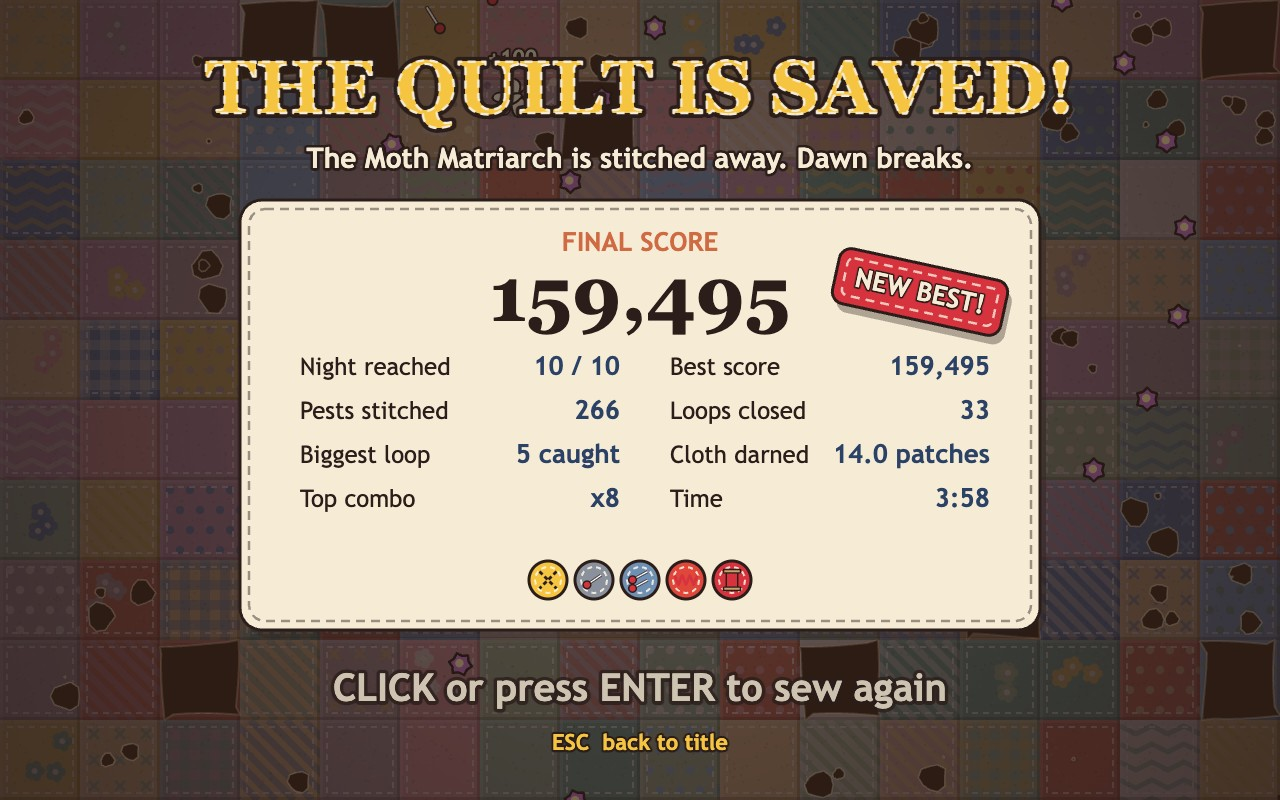
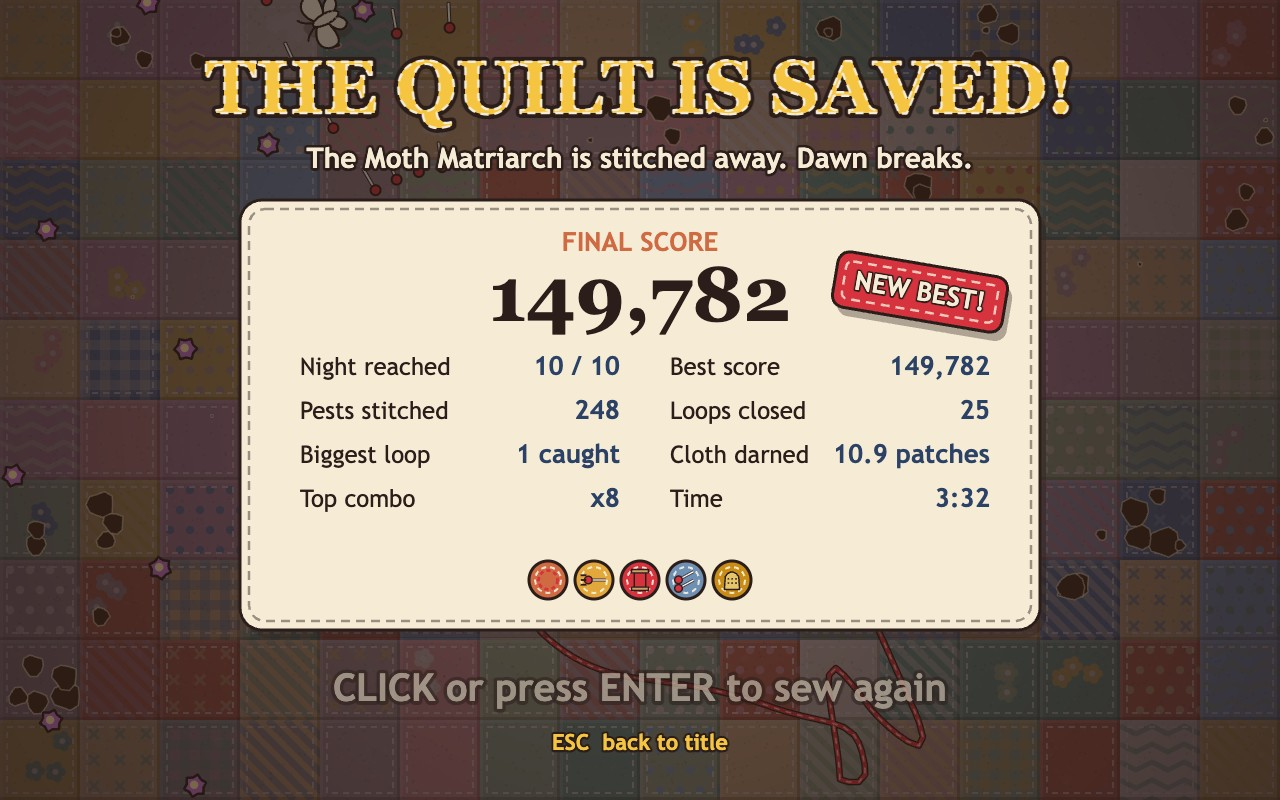
Teaching tips, win confetti, HiDPI canvas, auto-pause on blur, longer Matriarch fight, seed 6 cover

diff --git a/game/src/main.js b/game/src/main.js
@@ -26,8 +26,6 @@ const shotName = params.get('shot');
 
 const canvas = document.getElementById('game');
 const status = document.getElementById('status');
-canvas.width = VIEW.width;
-canvas.height = VIEW.height;
 const ctx = canvas.getContext('2d');
 const input = createInput(canvas);
 const audio = createAudio();
@@ -50,10 +48,26 @@ function newSeed() {
   return fixedSeed ?? Math.floor(Math.random() * 4294967296);
 }
 
+/** Backing-store pixels per logical pixel, so the game stays sharp on large and HiDPI screens. */
+let pixelScale = 1;
+
 function fitCanvas() {
   const scale = Math.min(window.innerWidth / VIEW.width, window.innerHeight / VIEW.height);
-  canvas.style.width = `${Math.floor(VIEW.width * scale)}px`;
-  canvas.style.height = `${Math.floor(VIEW.height * scale)}px`;
+  const cssWidth = Math.floor(VIEW.width * scale);
+  const cssHeight = Math.floor(VIEW.height * scale);
+  canvas.style.width = `${cssWidth}px`;
+  canvas.style.height = `${cssHeight}px`;
+  pixelScale = shotName ? 1 : Math.min(2, Math.max(1, (cssWidth / VIEW.width) * (window.devicePixelRatio || 1)));
+  canvas.width = Math.round(VIEW.width * pixelScale);
+  canvas.height = Math.round(VIEW.height * pixelScale);
+}
+
+/** Pauses a run when the player switches away, so nothing happens behind their back. */
+function pauseOnBlur() {
+  if (state.screen === 'play') {
+    state.screen = 'pause';
+    announce('Paused.');
+  }
 }
 
 function announce(text) {
@@ -204,6 +218,7 @@ function update(dt) {
 
 function render() {
   const t = state.clock;
+  ctx.setTransform(pixelScale, 0, 0, pixelScale, 0, 0);
   if (state.screen === 'title') {
     drawScene(ctx, state.demoRun, t);
     drawTitle(ctx, state.best, t);
@@ -252,6 +267,10 @@ function stage(name) {
 
 fitCanvas();
 window.addEventListener('resize', fitCanvas);
+window.addEventListener('blur', pauseOnBlur);
+document.addEventListener('visibilitychange', () => {
+  if (document.hidden) pauseOnBlur();
+});
 window.__stitch = {
   state,
   startRun,

diff --git a/game/src/hud.js b/game/src/hud.js
@@ -17,7 +17,22 @@ export function drawHud(ctx, run, best, time) {
   drawNeedleMeters(ctx, run);
   drawBossBar(ctx, run);
   drawOwnedNotions(ctx, run);
+  drawTip(ctx, run, time);
   drawBanner(ctx, run);
+}
+
+/** Teaching tips on the first nights: shown until the player has done the thing they teach. */
+function drawTip(ctx, run, time) {
+  let tip = null;
+  if (run.wave === 1 && run.stats.loops === 0 && run.time > 2.5) tip = 'Circle the moths: cross your own thread to close a loop!';
+  else if (run.wave === 2 && run.waveTime < 6) tip = 'Loops also darn holes shut. Space to snip-dash.';
+  else if (run.wave === 6 && run.waveTime < 6) tip = 'Snippers cut your thread: pin them first!';
+  if (!tip) return;
+  const y = VIEW.height - 118 + Math.sin(time * 3) * 3;
+  ctx.font = `bold 24px ${'"Trebuchet MS", sans-serif'}`;
+  const w = ctx.measureText(tip).width + 50;
+  drawFeltPanel(ctx, VIEW.width / 2 - w / 2, y - 26, w, 52, PALETTE.gold, 'rgba(42,29,26,0.5)', 14);
+  drawText(ctx, tip, VIEW.width / 2, y + 1, { size: 24, color: PALETTE.ink, outline: 0 });
 }
 
 function drawHealth(ctx, run) {
@@ -76,7 +91,7 @@ function drawQuiltMeter(ctx, run, time) {
   drawText(ctx, 'QUILT', 34, y + 30, { size: 24, color: low ? PALETTE.danger : PALETTE.ink, align: 'left', outline: 0 });
   const color = integrity > 0.6 ? PALETTE.sage : integrity > 0.35 ? PALETTE.mustard : PALETTE.danger;
   ctx.globalAlpha = low ? 0.6 + 0.4 * pulse : 1;
-  drawMeter(ctx, 120, y + 19, 160, 22, integrity, color);
+  drawMeter(ctx, 116, y + 19, 148, 22, integrity, color);
   ctx.globalAlpha = 1;
   drawText(ctx, `${Math.round(integrity * 100)}%`, 344, y + 31, { size: 26, color: PALETTE.ink, align: 'right', outline: 0 });
 }

diff --git a/game/src/game.js b/game/src/game.js
@@ -79,7 +79,20 @@ export function stepRun(run, intent, dt) {
   if (!run.outcome) {
     if (run.player.hp <= 0) loseRun(run, 'needle');
     else if (quiltIntegrity(run.quilt) <= 0) loseRun(run, 'quilt');
+  } else if (run.outcome === 'win' && !run.celebrated) celebrate(run);
+}
+
+/** Dawn on a saved quilt: felt confetti bursts all over the field. */
+function celebrate(run) {
+  run.celebrated = true;
+  const colors = [PALETTE.gold, PALETTE.thread, PALETTE.teal, PALETTE.rose, PALETTE.sky, PALETTE.cream];
+  for (let i = 0; i < 9; i += 1) {
+    const x = 140 + (i % 3) * 500 + run.rng.range(-60, 60);
+    const y = 160 + Math.floor(i / 3) * 240 + run.rng.range(-40, 40);
+    burst(run.fx, x, y, { count: 30, colors, speed: 420, size: 7, life: 2.2, gravity: 160 });
+    ring(run.fx, x, y, PALETTE.gold, 140, 0.9, 8);
   }
+  screenFlash(run.fx, PALETTE.gold, 0.5);
 }
 
 /** A closed loop pulls tight: everything inside takes the cinch, holes inside are darned shut. */
@@ -91,7 +104,7 @@ export function cinchLoop(run, polygon) {
   for (const enemy of run.enemies) {
     if (enemy.dead || !pointInPolygon(enemy.x, enemy.y, polygon)) continue;
     caught += 1;
-    const damage = run.mods.loopDamage * (enemy.kind === 'matriarch' ? 2.2 : 1);
+    const damage = run.mods.loopDamage * (enemy.kind === 'matriarch' ? 1.4 : 1);
     damageEnemy(run, enemy, damage, 'loop');
     burst(fx, enemy.x, enemy.y, { count: 8, colors: [PALETTE.thread, PALETTE.gold], speed: 180, size: 6, kind: 'spark' });
   }

diff --git a/game/src/enemies.js b/game/src/enemies.js
@@ -16,14 +16,14 @@ import { VIEW } from './config.js';
 import { angleDelta, clamp, distance } from './geometry.js';
 
 export const ENEMY_KINDS = {
-  moth: { hp: 18, r: 17, speed: 92, score: 100, colors: ['#9c7bb0', '#5e4170', '#e8d9b5'] },
+  moth: { hp: 18, r: 19, speed: 92, score: 100, colors: ['#9c7bb0', '#5e4170', '#e8d9b5'] },
   silverfish: { hp: 9, r: 11, speed: 185, score: 60, colors: ['#d9dde3', '#8a919c'] },
   beetle: { hp: 48, r: 21, speed: 72, score: 220, colors: ['#2b4166', '#6f8fb3', '#f6ecd6'] },
   snipper: { hp: 30, r: 16, speed: 150, score: 180, colors: ['#7a3b2e', '#d9dde3'] },
   spitter: { hp: 60, r: 23, speed: 42, score: 260, colors: ['#d6333f', '#94b283', '#f6ecd6'] },
   wyrm: { hp: 420, r: 27, speed: 150, score: 2000, colors: ['#e07a5f', '#f4a7a1', '#f6ecd6'] },
   wyrmSegment: { hp: 70, r: 21, speed: 0, score: 120, colors: ['#e07a5f', '#f2cc8f'] },
-  matriarch: { hp: 3400, r: 72, speed: 70, score: 10000, colors: ['#5e4170', '#9c7bb0', '#f5c542', '#f6ecd6'] },
+  matriarch: { hp: 4200, r: 72, speed: 70, score: 10000, colors: ['#5e4170', '#9c7bb0', '#f5c542', '#f6ecd6'] },
 };
 
 const BEHAVIOURS = {

diff --git a/game/src/quilt.js b/game/src/quilt.js
@@ -36,10 +36,12 @@ export function createQuilt(seed) {
       });
     }
   }
+  // Painted at twice the logical size so the cloth stays crisp when the page scales the game up.
   const canvas = document.createElement('canvas');
-  canvas.width = VIEW.width;
-  canvas.height = VIEW.height;
+  canvas.width = VIEW.width * 2;
+  canvas.height = VIEW.height * 2;
   const ctx = canvas.getContext('2d');
+  ctx.scale(2, 2);
   for (const patch of patches) paintPatch(ctx, patch, rng);
   paintQuiltShade(ctx);
   return { patches, canvas, eaten: 0 };
@@ -103,7 +105,7 @@ export function updateQuilt(quilt, dt) {
 }
 
 export function drawQuilt(ctx, quilt) {
-  ctx.drawImage(quilt.canvas, 0, 0);
+  ctx.drawImage(quilt.canvas, 0, 0, VIEW.width, VIEW.height);
   for (const patch of quilt.patches) {
     if (patch.hp < 1) drawPatchDamage(ctx, patch);
     if (patch.mendFlash > 0) drawMendStitches(ctx, patch);

diff --git a/game/src/shots.js b/game/src/shots.js
@@ -85,7 +85,9 @@ export function stageShot(name, seed) {
         if (p.x < 120 || p.x > 1160 || p.y < 190 || p.y > 660 || p.invuln > 0) return -1;
         const apart = Math.hypot(p.x - boss.x, p.y - boss.y);
         const offCentre = Math.hypot(boss.x - 640, boss.y - 380);
-        return spectacle(r) - offCentre * 0.12 + (boss.spiralLeft > 0 ? 40 : 0) + (boss.hp / boss.maxHp) * 60 + (p.hp >= 3 ? 20 : 0) + (apart > 180 && apart < 420 ? 30 : 0);
+        const spacing = apart < 190 ? -120 : apart < 430 ? 30 : 0;
+        const spools = p.hp <= 1 ? -60 : p.hp >= 3 ? 25 : 0;
+        return spectacle(r) - offCentre * 0.12 + (boss.spiralLeft > 0 ? 40 : 0) + (boss.hp / boss.maxHp) * 60 + spools + spacing;
       });
       return { screen: 'play', run, time: run.time };
     }
